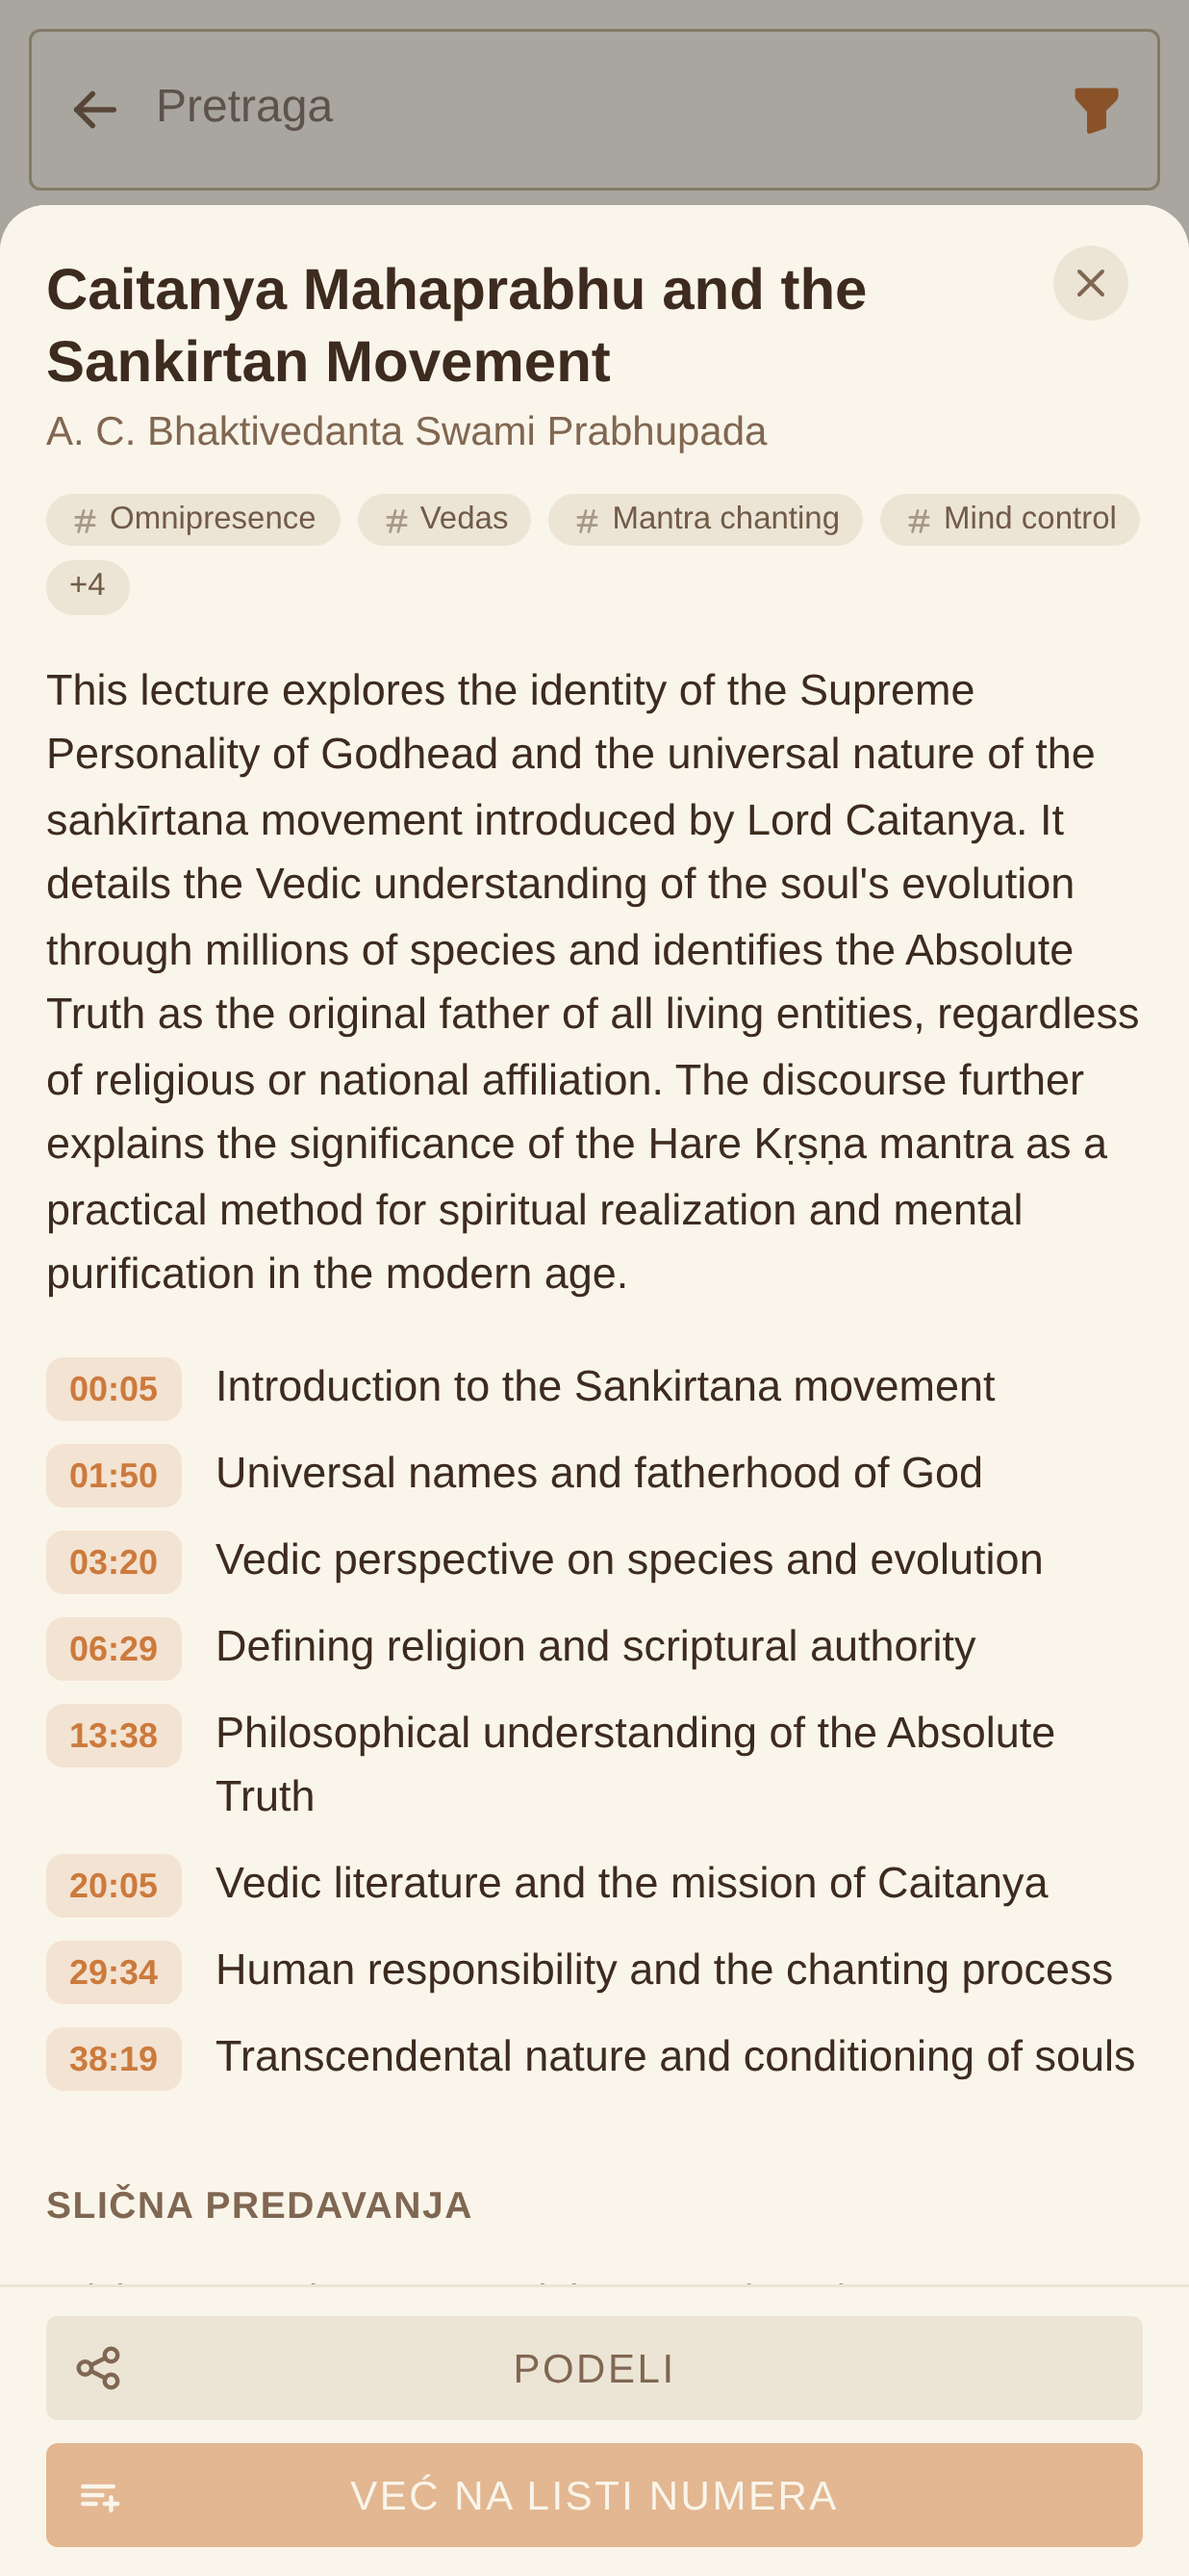
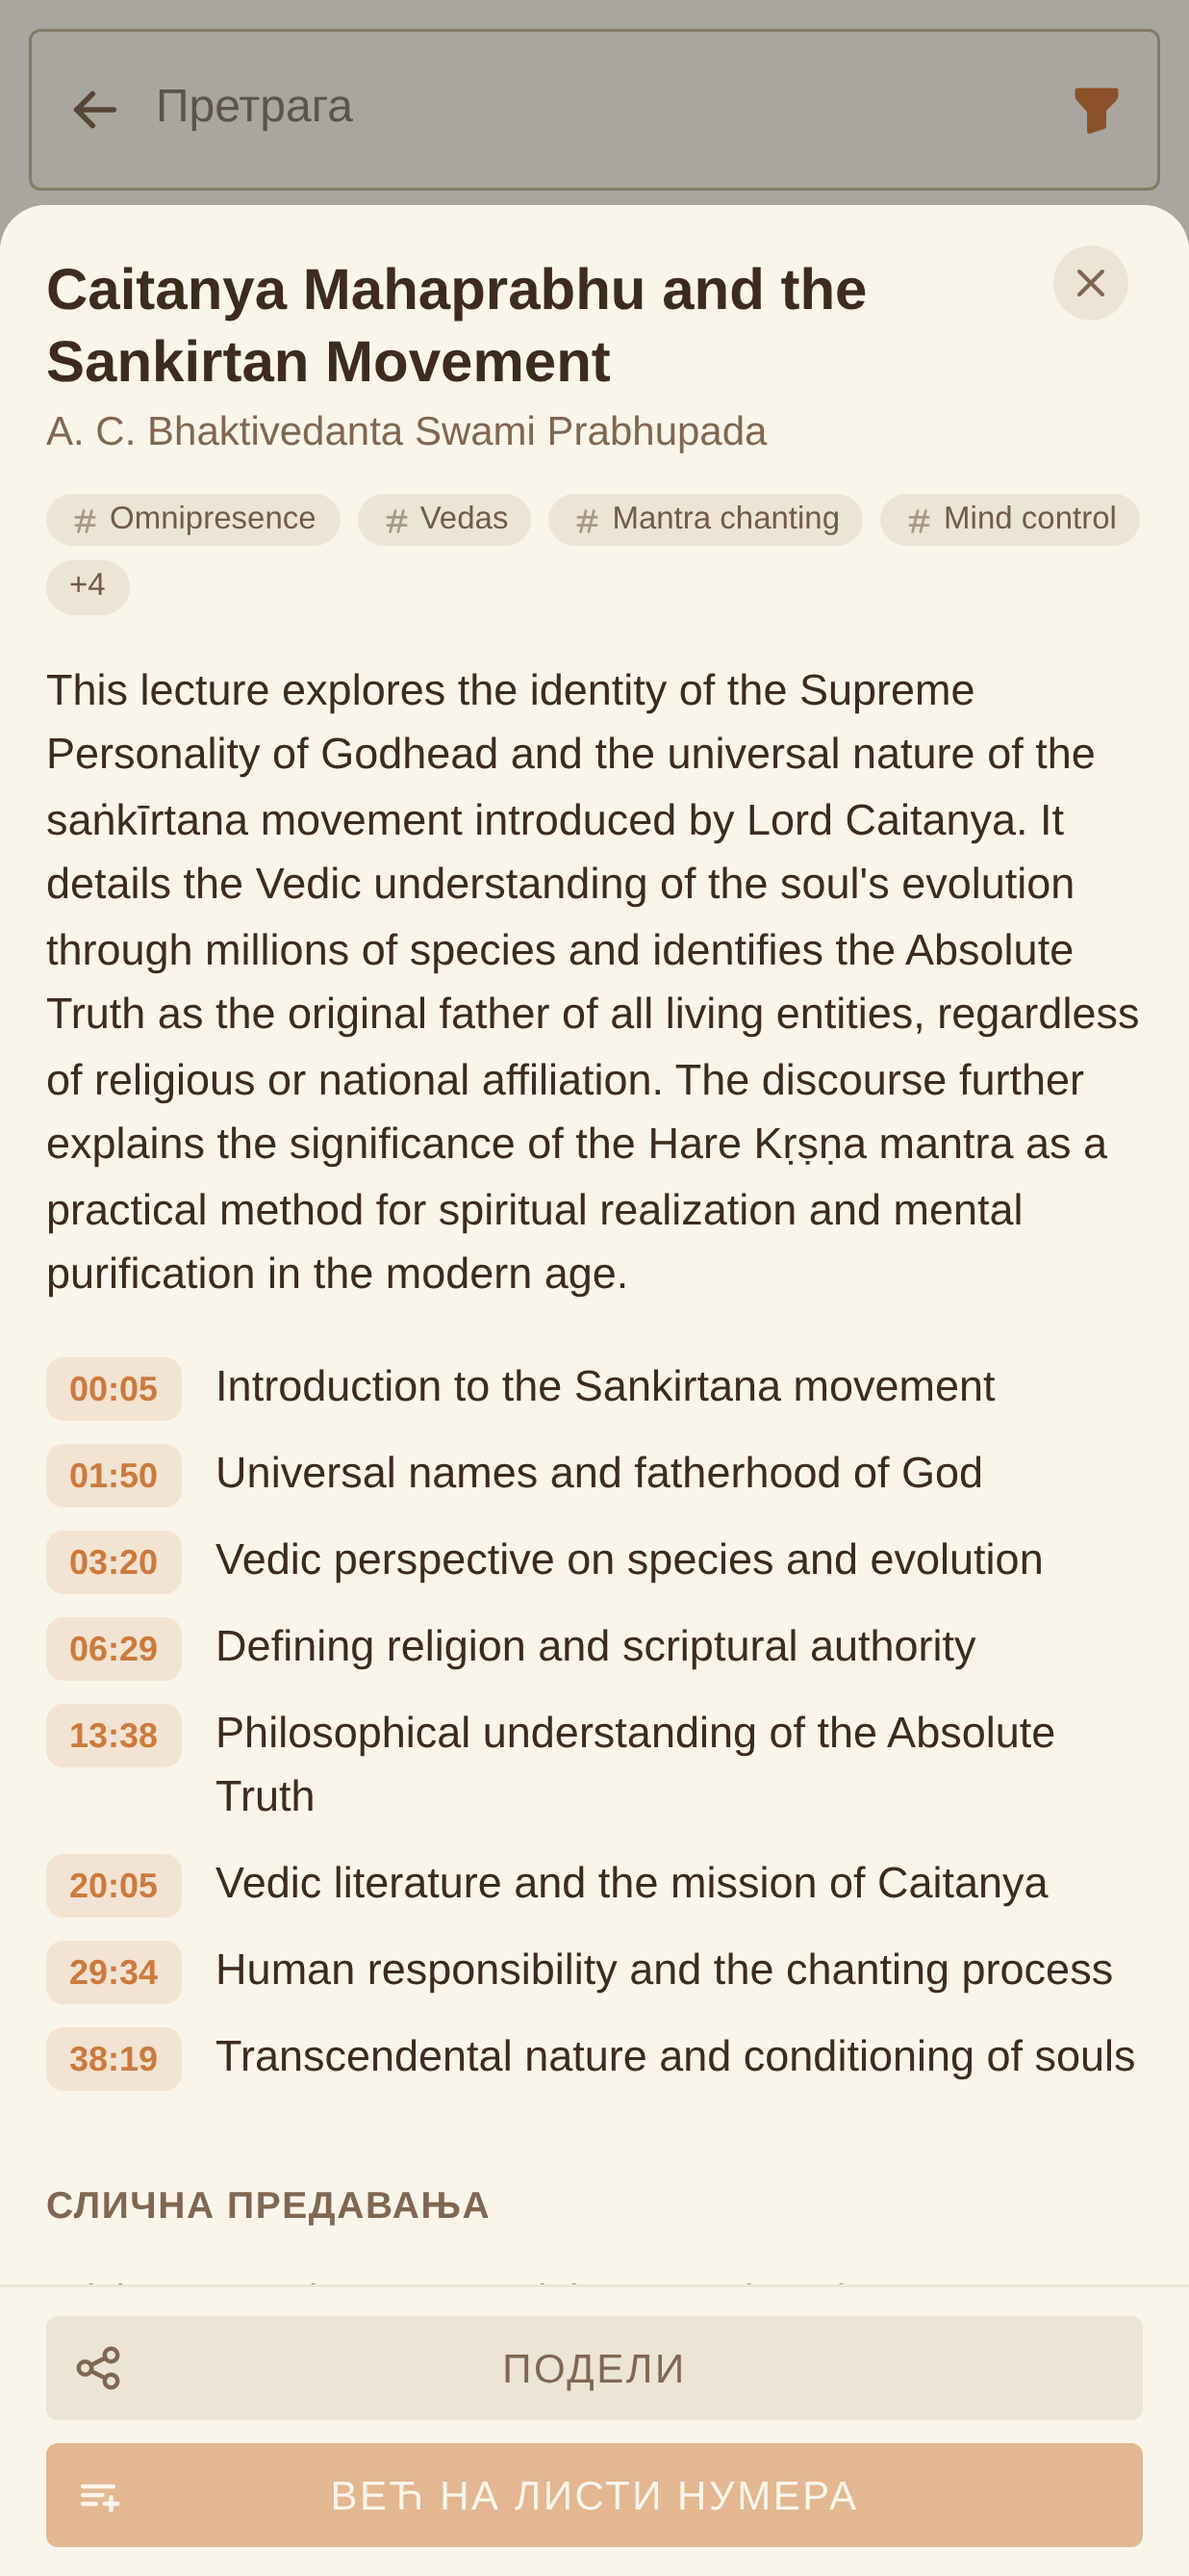
fix(screenshots): pin UI language so sr-Cyrl captures render Cyrillic
The capture booted with `?locale=<code>`, but Welcome redirects to
/tabs/home and drops the query string before `useAppLanguageSeed` runs.
The seed then re-derived the language from navigator.language, and Chromium
normalises the invalid standalone `sr-Cyrl` context locale to a bare `sr`,
which toSupportedLocale maps to `sr-Latn` — so every Cyrillic screenshot
came out in Latin chrome (only the seeded chat content was Cyrillic). en/ru/
sr-Latn are valid BCP-47 tags and were unaffected, which is why it slipped.

Preseed `settings.appLanguage` (the same Capacitor Preferences key the app
persists) so the seed no-ops and the UI language is pinned to the captured
locale deterministically. Regenerate the 8 web sr-cyrl screenshots that
carried localized chrome; 04_transcript is pure English content so it is
unchanged.

diff --git a/modules/tools/screenshots/specs/capture.spec.ts b/modules/tools/screenshots/specs/capture.spec.ts
@@ -216,6 +216,30 @@ async function preseedOnboarding(page: Page): Promise<void> {
 }
 
 /**
+ * Pin the UI language to the captured locale. The app reads `?locale=` only
+ * for the synchronous i18n default, then `useAppLanguageSeed` re-derives the
+ * language from `navigator.language` once the Welcome redirect to `/tabs/home`
+ * has dropped the query string. Chromium normalises the invalid standalone
+ * `sr-Cyrl` context locale to a bare `sr`, which `toSupportedLocale` maps to
+ * `sr-Latn` — so without this the Cyrillic capture renders Latin chrome. The
+ * seed no-ops when `settings.appLanguage` is already set (web →
+ * `localStorage["CapacitorStorage.settings.appLanguage"]`, JSON-encoded by
+ * `useConfig`), so stamping it makes every locale deterministic.
+ */
+async function preseedAppLanguage(page: Page, code: CaptureLocale): Promise<void> {
+  await page.addInitScript(
+    ({ value }: { value: string }) => {
+      try {
+        localStorage.setItem("CapacitorStorage.settings.appLanguage", value)
+      } catch {
+        // unavailable origin — non-fatal; the app falls back to its detected locale.
+      }
+    },
+    { value: JSON.stringify(code) }
+  )
+}
+
+/**
  * Write the seeded user.db into IndexedDB BEFORE the app boots. The Vite
  * `useSqlJsPersistence` reads from `(shruti, databases, user.db)` on
  * `open()` and creates an empty DB only when the key is missing — so a
@@ -270,6 +294,7 @@ async function boot(page: Page, code: CaptureLocale): Promise<void> {
   await preseedSearchFilter(page, code)
   await preseedDismissedNags(page)
   await preseedOnboarding(page)
+  await preseedAppLanguage(page, code)
 
   await page.goto(`/?locale=${code}`)
   await page.waitForURL("**/tabs/home", { timeout: 60_000 })
